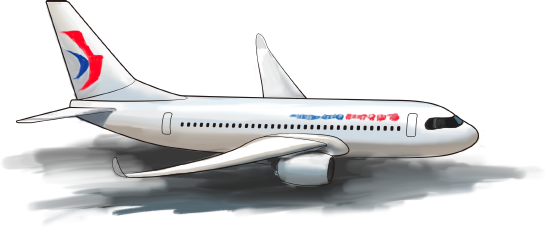
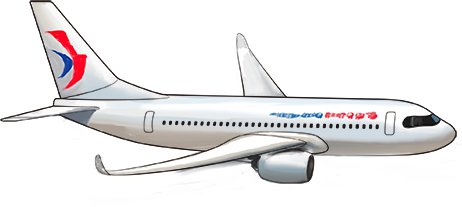
t

diff --git a/page/page9.html b/page/page9.html
@@ -24,7 +24,7 @@
 	</div>
 	
 	<div class="page page10 hide">
-		<div class="plane"><img src="../img/page11-plane.png" alt=""></div>
+		<div class="plane"><img src="../img/page10-plane.png" alt=""></div>
 	</div>
 
 	<div class="page page11 ">
